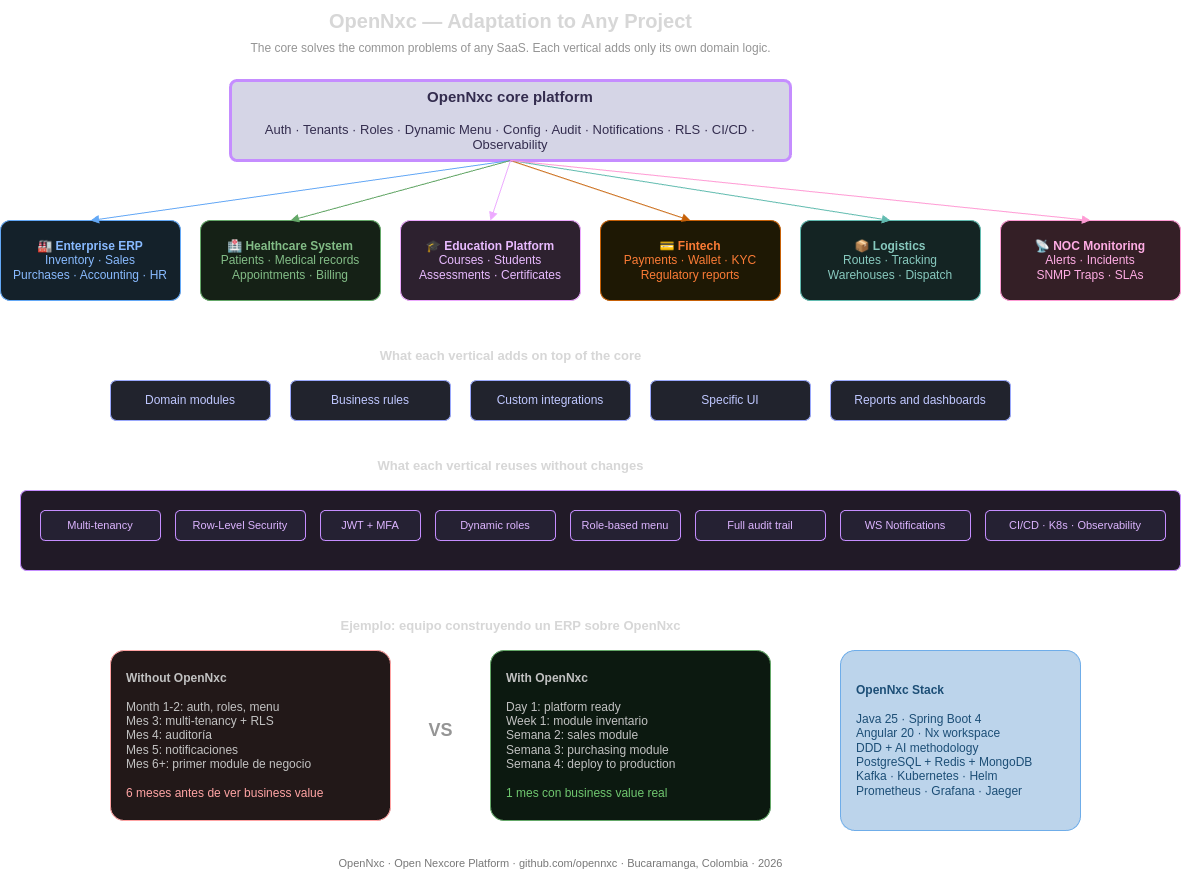
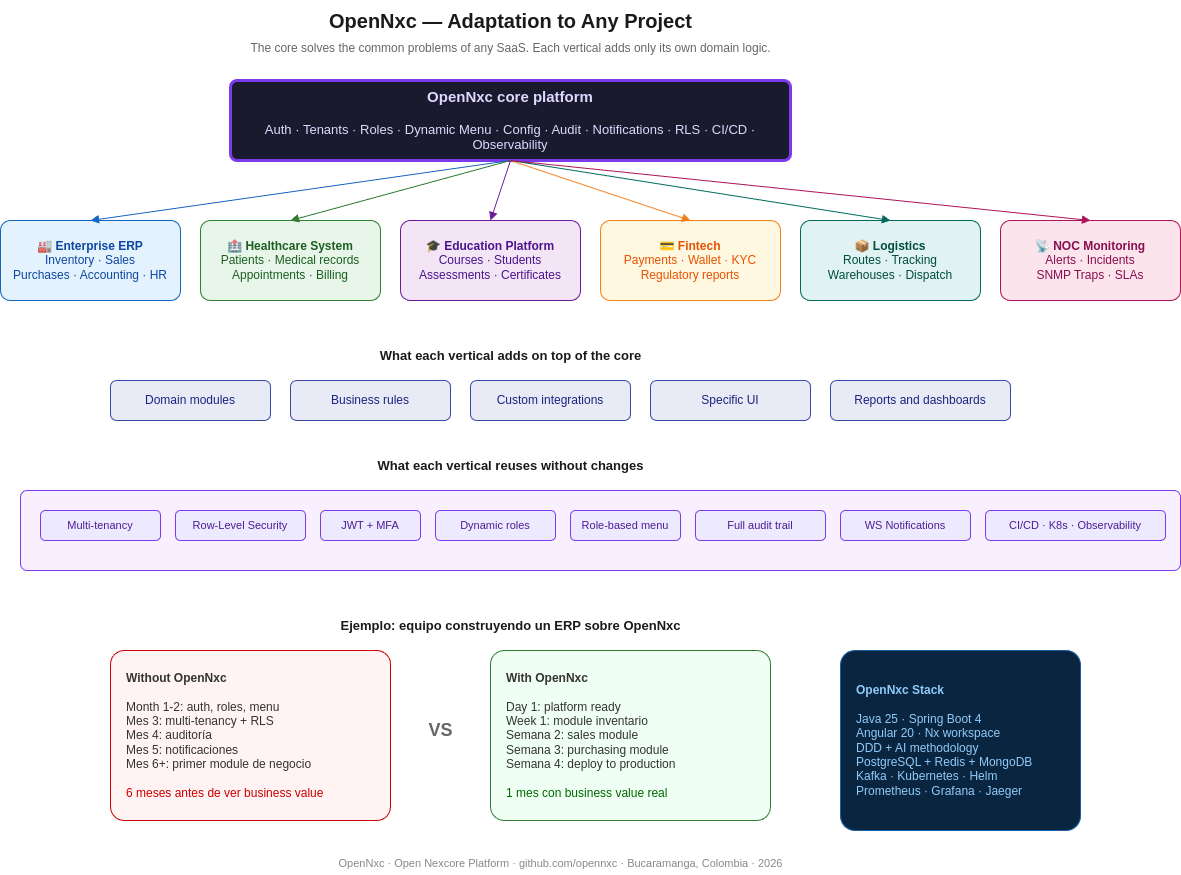
update

diff --git a/index.html b/index.html
@@ -170,22 +170,25 @@ section { position: relative; z-index: 1; }
 .image-panel {
   margin-top: 24px;
   background: var(--bg2);
-  border: 1px solid var(--border);
+  border: 1px solid var(--border2);
   border-radius: 14px;
-  padding: 14px;
+  overflow: hidden;
+  box-shadow: 0 2px 20px rgba(15,23,42,0.07);
 }
 .image-panel img {
   width: 100%;
   height: auto;
   display: block;
-  border-radius: 10px;
+  border-radius: 0;
 }
 .image-caption {
   font-family: var(--mono);
   font-size: 11px;
   color: var(--text3);
   letter-spacing: 0.6px;
-  margin-top: 10px;
+  padding: 10px 16px 12px;
+  border-top: 1px solid var(--border);
+  background: var(--bg);
 }
 .zoomable-media {
   cursor: zoom-in;